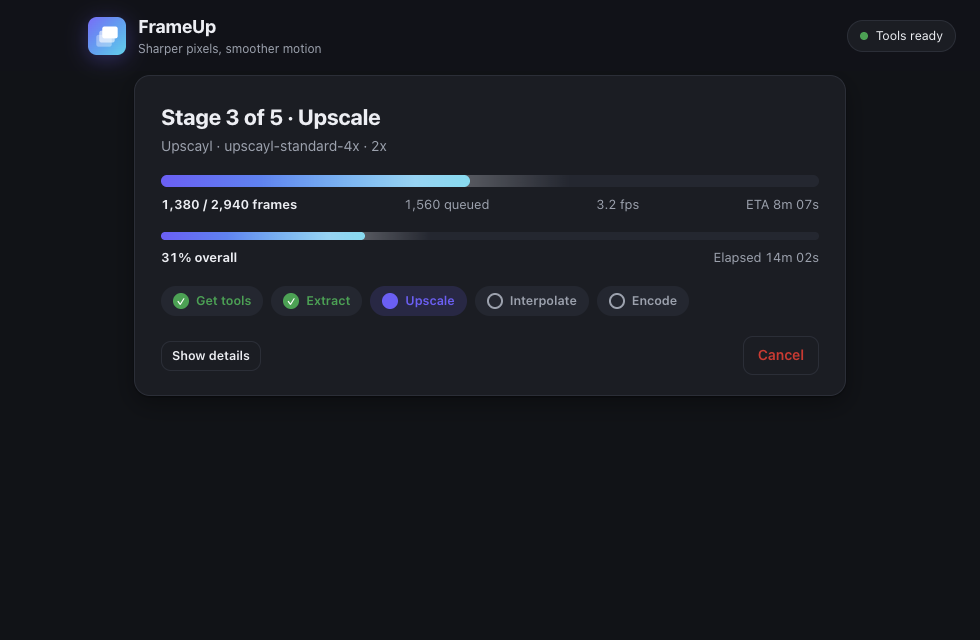
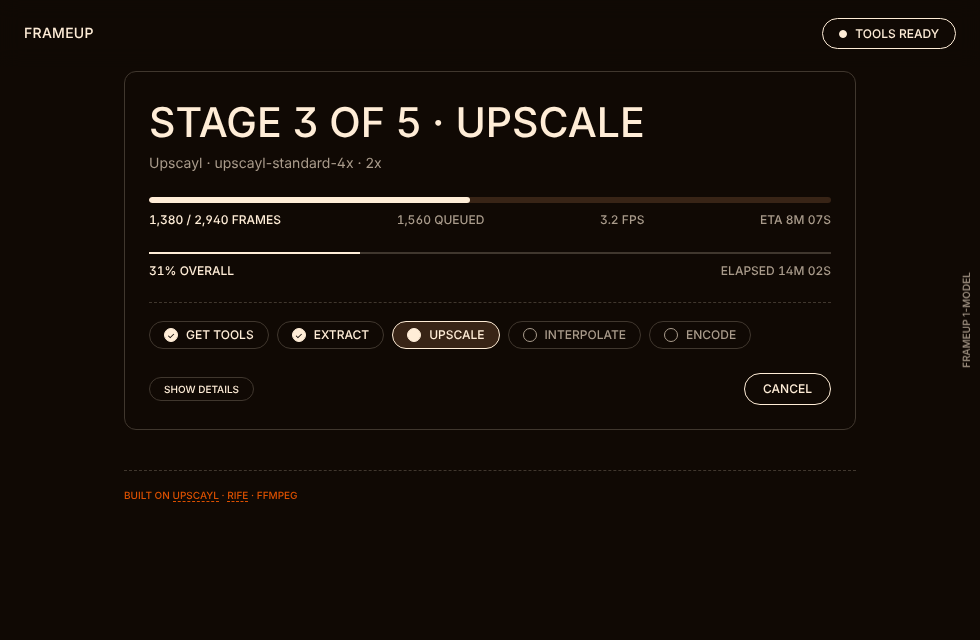
Restyle the UI as a dark editorial theme; use GITHUB_TOKEN for smoke-test API calls
UI: warm-dark canvas, cream uppercase type, hairline dashed dividers, one filled
pill button, underline-only inputs, no shadows, ember accent for credits only.
Docs screenshots regenerated.

CI: githubJson sends GITHUB_TOKEN when set and the workflow's smoke step passes it,
avoiding the unauthenticated 60/hour rate limit that failed macOS runners.

Claude-Session: https://claude.ai/code/session_011GP7yt1kUMtTtXSDfzhnFa

diff --git a/renderer/styles.css b/renderer/styles.css
@@ -1,120 +1,145 @@
+/* FrameUp — dark editorial theme: warm-dark canvas, cream uppercase type, hairline dashed dividers, no shadows. */
 :root {
-  --bg: #f4f5f8; --card: #ffffff; --ink: #14161a; --muted: #6b7280; --line: #e4e6ec; --soft: #eef0f5;
-  --accent: #6d5efc; --accent2: #22d3ee; --ok: #16a34a; --warn: #b45309; --warnbg: #fff4e0; --danger: #dc2626;
-  --shadow: 0 1px 2px rgba(16,24,40,.05), 0 8px 24px rgba(16,24,40,.06);
-  --radius: 16px;
-}
-@media (prefers-color-scheme: dark) {
-  :root { --bg: #111318; --card: #1a1d24; --ink: #eceef3; --muted: #9aa1ae; --line: #2a2e38; --soft: #232731;
-    --warn: #f5b04a; --warnbg: #2c2314; --shadow: 0 1px 2px rgba(0,0,0,.4), 0 8px 24px rgba(0,0,0,.35); }
+  --cream: #ffedd7; --walnut: #100904; --bark: #382416; --cork: #40372e; --drift: #6c5f51; --ember: #dc5000;
+  /* aliases used by app.js */
+  --dim: color-mix(in srgb, var(--cream) 64%, var(--walnut)); --warn: var(--cream); --muted: var(--dim);
+  --font: "halyard-display-variable", "Inter", "Söhne", "Neue Haas Grotesk", ui-sans-serif, system-ui, -apple-system, "Segoe UI", Roboto, sans-serif;
+  --r-card: 12px; --r-ghost: 22.5px; --r-pill: 36px;
 }
 * { box-sizing: border-box; }
 html, body { height: 100%; }
-body { margin: 0; background: var(--bg); color: var(--ink); font: 14px/1.45 -apple-system, BlinkMacSystemFont, "Segoe UI", Roboto, Ubuntu, "Helvetica Neue", sans-serif; -webkit-font-smoothing: antialiased; }
+html { color-scheme: dark; }
+body { margin: 0; background: var(--walnut); color: var(--cream); font: 500 12px/1.2 var(--font); font-feature-settings: "ss01" on; text-transform: uppercase; -webkit-font-smoothing: antialiased; }
 .hidden { display: none !important; }
-.muted { color: var(--muted); }
+.muted { color: var(--dim); }
+a { color: inherit; }
 
-.topbar { display: flex; align-items: center; justify-content: space-between; padding: 14px 24px; -webkit-app-region: drag; position: sticky; top: 0; z-index: 5; background: color-mix(in srgb, var(--bg) 88%, transparent); backdrop-filter: blur(10px); }
+/* the one mixed-case voice: descriptive copy */
+.lede, .hint, .drop-sub, .tool .d, .path, .log, .warn, .doneText, #doneText, .run-note, .summary, .srcname, .chip, .stat-case { text-transform: none; font-weight: 400; }
+
+/* top bar + edge label */
+.topbar { display: flex; align-items: center; justify-content: space-between; padding: 18px 24px; -webkit-app-region: drag; position: sticky; top: 0; z-index: 5; background: color-mix(in srgb, var(--walnut) 88%, transparent); backdrop-filter: blur(10px); }
 body.darwin .topbar { padding-left: 88px; }
 .topbar button { -webkit-app-region: no-drag; }
-.brand { display: flex; align-items: center; gap: 12px; }
-.logo { width: 38px; height: 38px; filter: drop-shadow(0 4px 10px rgba(109,94,252,.35)); }
-.brand-name { font-weight: 750; font-size: 18px; letter-spacing: -.01em; }
-.brand-sub { color: var(--muted); font-size: 12px; }
-.pill { display: inline-flex; align-items: center; gap: 8px; border: 1px solid var(--line); background: var(--card); color: var(--ink); border-radius: 999px; padding: 6px 12px; font: inherit; font-size: 12.5px; cursor: pointer; }
-.pill:hover { border-color: var(--accent); }
-.dot { width: 8px; height: 8px; border-radius: 50%; background: var(--muted); }
-.dot.ok { background: var(--ok); } .dot.warn { background: #f59e0b; }
+.brand-name { font-size: 14px; letter-spacing: .02em; }
+.sidelabel { position: fixed; right: 8px; top: 50%; writing-mode: vertical-rl; transform: translateY(-50%) rotate(180deg); font-size: 10px; color: var(--dim); pointer-events: none; z-index: 1; }
+.pill { display: inline-flex; align-items: center; gap: 8px; border: 1px solid var(--cream); background: transparent; color: var(--cream); border-radius: var(--r-ghost); padding: 7.5px 16px; font: inherit; text-transform: uppercase; cursor: pointer; }
+.pill:hover { background: var(--bark); }
+.dot { width: 8px; height: 8px; border-radius: 50%; border: 1px solid var(--cream); }
+.dot.ok { background: var(--cream); } .dot.warn { background: transparent; border-style: dashed; }
 
-main { max-width: 760px; margin: 0 auto; padding: 4px 24px 40px; }
-.card { background: var(--card); border: 1px solid var(--line); border-radius: var(--radius); box-shadow: var(--shadow); padding: 18px 20px; margin-bottom: 14px; }
-.card-head { display: flex; align-items: center; gap: 10px; margin-bottom: 12px; }
-.card-head h2 { margin: 0; font-size: 15px; flex: 1; }
-.num { width: 22px; height: 22px; border-radius: 50%; background: linear-gradient(135deg, var(--accent), var(--accent2)); color: #fff; font-size: 12px; font-weight: 700; display: grid; place-items: center; }
-.lbl { display: block; font-size: 12px; font-weight: 600; color: var(--muted); margin: 0 0 6px; text-transform: uppercase; letter-spacing: .04em; }
-.hint { color: var(--muted); font-size: 12.5px; margin-top: 8px; }
-.row { display: flex; align-items: center; } .gap { gap: 10px; } .between { justify-content: space-between; } .center { justify-content: center; } .wrap { flex-wrap: wrap; } .grow { flex: 1; min-width: 0; }
+main { max-width: 780px; margin: 0 auto; padding: 4px 24px 40px; }
+
+/* hero */
+.hero { padding: 36px 0 30px; border-bottom: 1px dashed var(--cork); margin-bottom: 24px; }
+.tagline { font-size: 12px; margin-bottom: 14px; }
+h1 { margin: 0; font-weight: 500; font-size: clamp(34px, 6.4vw, 51px); line-height: .9; }
+.lede { margin: 20px 0 0; font-size: clamp(16px, 2.6vw, 22px); line-height: 1.26; max-width: 30em; }
+
+/* cards */
+.card { background: transparent; border: 1px solid var(--cork); border-radius: var(--r-card); padding: 24px; margin-bottom: 18px; }
+.card-head { display: flex; align-items: center; gap: 14px; margin-bottom: 18px; padding-bottom: 14px; border-bottom: 1px dashed var(--cork); }
+.card-head h2 { margin: 0; font-size: 18px; font-weight: 500; line-height: 1; flex: 1; }
+.num { font-size: 12px; color: var(--dim); font-variant-numeric: tabular-nums; }
+.num::before { content: "0"; }
+.lbl { display: block; font-size: 12px; font-weight: 500; color: var(--cream); margin: 0 0 10px; }
+.hint { color: var(--dim); font-size: 14px; line-height: 1.3; margin-top: 12px; }
+.row { display: flex; align-items: center; } .gap { gap: 18px; } .between { justify-content: space-between; } .center { justify-content: center; } .wrap { flex-wrap: wrap; } .grow { flex: 1; min-width: 0; }
 .center-text { text-align: center; }
-.grid2 { display: grid; grid-template-columns: 1fr auto; gap: 16px; align-items: end; }
+.grid2 { display: grid; grid-template-columns: 1fr auto; gap: 18px; align-items: end; }
 
-.btn { font: inherit; font-weight: 600; border-radius: 10px; padding: 8px 14px; border: 1px solid var(--line); background: var(--card); color: var(--ink); cursor: pointer; transition: transform .05s, border-color .15s, background .15s; }
-.btn:hover { border-color: var(--accent); } .btn:active { transform: translateY(1px); }
-.btn.ghost { background: transparent; } .btn.small { padding: 5px 10px; font-size: 12.5px; }
-.btn.primary { background: linear-gradient(135deg, var(--accent), #8b5cf6); color: #fff; border-color: transparent; box-shadow: 0 6px 18px rgba(109,94,252,.35); }
-.btn.primary:hover { filter: brightness(1.06); }
-.btn.danger { color: var(--danger); } .btn.danger.confirm { background: var(--danger); color: #fff; border-color: var(--danger); }
-.btn.big { padding: 12px 34px; font-size: 15px; border-radius: 12px; }
-.btn:disabled { opacity: .45; cursor: not-allowed; box-shadow: none; }
-:focus-visible { outline: 2px solid var(--accent); outline-offset: 2px; }
+/* buttons: one filled pill, outlined ghosts */
+.btn { font: inherit; text-transform: uppercase; border-radius: var(--r-ghost); padding: 7.5px 18px; border: 1px solid var(--cream); background: transparent; color: var(--cream); cursor: pointer; transition: background .15s; }
+.btn:hover { background: var(--bark); } .btn:active { background: var(--cork); }
+.btn.ghost { border-color: var(--cork); } .btn.ghost:hover { border-color: var(--cream); }
+.btn.small { padding: 5px 14px; font-size: 10px; }
+.btn.primary { background: var(--bark); border-color: var(--bark); border-radius: var(--r-pill); padding: 14px 24px; }
+.btn.primary:hover { background: var(--cork); border-color: var(--cork); }
+.btn.danger.confirm { background: var(--bark); border-color: var(--bark); }
+.btn.big { padding: 14px 40px; font-size: 14px; }
+.btn:disabled { opacity: .35; cursor: not-allowed; }
+:focus-visible { outline: 1px dashed var(--cream); outline-offset: 3px; }
 
-.drop { border: 2px dashed var(--line); border-radius: 14px; padding: 22px 16px; text-align: center; transition: border-color .15s, background .15s; }
-.drop.over { border-color: var(--accent); background: color-mix(in srgb, var(--accent) 8%, transparent); }
-.drop .ico { width: 34px; height: 34px; color: var(--accent); }
-.drop-title { font-weight: 650; margin-top: 6px; } .drop-sub { color: var(--muted); font-size: 12.5px; margin: 2px 0 12px; }
-.srcinfo { margin-top: 14px; padding: 12px 14px; background: var(--soft); border-radius: 12px; }
-.srcname { font-weight: 650; margin-bottom: 6px; word-break: break-all; }
+/* drop zone + source */
+.drop { border: 1px dashed var(--drift); border-radius: var(--r-card); padding: 28px 18px; text-align: center; transition: border-color .15s, background .15s; }
+.drop.over { border-color: var(--cream); background: var(--bark); }
+.drop .ico { width: 30px; height: 30px; color: var(--cream); }
+.drop-title { font-size: 18px; line-height: 1; margin-top: 12px; }
+.drop-sub { color: var(--dim); font-size: 14px; margin: 8px 0 18px; }
+.srcinfo { margin-top: 18px; padding: 14px 0 0; border-top: 1px dashed var(--cork); }
+.srcname { font-size: 14px; font-weight: 500; margin-bottom: 10px; word-break: break-all; text-transform: none; }
 .chips { display: flex; flex-wrap: wrap; gap: 6px; }
-.chip { background: var(--card); border: 1px solid var(--line); border-radius: 999px; padding: 2px 10px; font-size: 12px; }
-.srcinfo .row { margin-top: 10px; }
+.chip { border: 1px solid var(--cork); border-radius: 999px; padding: 3px 12px; font-size: 12px; }
+.srcinfo .row { margin-top: 14px; }
 
-select, input[type=number] { font: inherit; color: var(--ink); background: var(--card); border: 1px solid var(--line); border-radius: 10px; padding: 8px 10px; }
-.devs { margin-top: 14px; } .devgrid { display: grid; grid-template-columns: 90px 1fr; gap: 8px 10px; align-items: center; margin-top: 10px; }
+/* form controls: underline only, square */
+select, input[type=number] { font: inherit; text-transform: none; color: var(--cream); background: transparent; border: 0; border-bottom: 1px solid var(--cream); border-radius: 0; padding: 4px 2px; }
+select option { background: var(--walnut); color: var(--cream); }
 select { width: 100%; } input[type=number] { width: 90px; }
-.seg { display: inline-flex; background: var(--soft); border-radius: 11px; padding: 3px; gap: 2px; }
+.devs { margin-top: 18px; padding-top: 18px; border-top: 1px dashed var(--cork); }
+.devgrid { display: grid; grid-template-columns: 96px 1fr; gap: 12px 18px; align-items: center; margin-top: 14px; }
+.seg { display: inline-flex; gap: 6px; }
 .seg.wide { display: flex; } .seg.wide button { flex: 1; }
-.seg button { font: inherit; font-weight: 600; border: 0; background: transparent; color: var(--muted); border-radius: 8px; padding: 7px 14px; cursor: pointer; }
-.seg button.on { background: var(--card); color: var(--ink); box-shadow: 0 1px 3px rgba(0,0,0,.12); }
-.seg button:disabled { opacity: .4; cursor: not-allowed; }
-#customRow, #engineBox { margin-top: 12px; }
+.seg button { font: inherit; text-transform: uppercase; border: 1px solid var(--cork); background: transparent; color: var(--cream); border-radius: var(--r-ghost); padding: 7.5px 18px; cursor: pointer; }
+.seg button:hover { border-color: var(--cream); }
+.seg button.on { background: var(--bark); border-color: var(--cream); }
+.seg button:disabled { opacity: .35; cursor: not-allowed; }
+#customRow, #engineBox { margin-top: 18px; }
 
 .switch { position: relative; width: 42px; height: 24px; flex: none; }
 .switch input { opacity: 0; width: 0; height: 0; }
-.slider { position: absolute; inset: 0; background: var(--line); border-radius: 999px; transition: .2s; cursor: pointer; }
-.slider::before { content: ""; position: absolute; width: 18px; height: 18px; left: 3px; top: 3px; background: #fff; border-radius: 50%; transition: .2s; box-shadow: 0 1px 3px rgba(0,0,0,.3); }
-.switch input:checked + .slider { background: var(--accent); } .switch input:checked + .slider::before { transform: translateX(18px); }
-.switch input:focus-visible + .slider { outline: 2px solid var(--accent); outline-offset: 2px; }
-#cardUpscale.off #upBody { opacity: .4; pointer-events: none; }
+.slider { position: absolute; inset: 0; border: 1px solid var(--cream); border-radius: 999px; transition: .2s; cursor: pointer; }
+.slider::before { content: ""; position: absolute; width: 16px; height: 16px; left: 3px; top: 3px; background: var(--cream); border-radius: 50%; transition: .2s; }
+.switch input:checked + .slider { background: var(--bark); } .switch input:checked + .slider::before { transform: translateX(18px); }
+.switch input:focus-visible + .slider { outline: 1px dashed var(--cream); outline-offset: 3px; }
+#cardUpscale.off #upBody { opacity: .35; pointer-events: none; }
 
-.path { font-family: ui-monospace, SFMono-Regular, Menlo, Consolas, monospace; font-size: 12.5px; word-break: break-all; }
-.summary { margin-top: 12px; padding: 10px 14px; background: var(--soft); border-radius: 12px; font-size: 13px; }
-.summary b { font-weight: 650; }
-.adv { margin-top: 12px; } .adv summary { cursor: pointer; color: var(--muted); font-weight: 600; margin-bottom: 8px; }
+.path { font-family: ui-monospace, SFMono-Regular, Menlo, Consolas, monospace; font-size: 12px; word-break: break-all; }
+.summary { margin-top: 18px; padding: 14px 0; border-top: 1px dashed var(--cork); border-bottom: 1px dashed var(--cork); font-size: 14px; }
+.summary b { font-weight: 500; }
+.adv { margin-top: 18px; } .adv summary { cursor: pointer; font-weight: 500; margin-bottom: 14px; }
 
-.startbar { position: sticky; bottom: 0; padding: 14px 0 6px; display: flex; flex-direction: column; align-items: center; gap: 10px; background: linear-gradient(to top, var(--bg) 70%, transparent); }
-.warn { background: var(--warnbg); color: var(--warn); border-radius: 10px; padding: 8px 14px; font-size: 13px; max-width: 100%; }
+.startbar { position: sticky; bottom: 0; padding: 18px 0 6px; display: flex; flex-direction: column; align-items: center; gap: 12px; background: linear-gradient(to top, var(--walnut) 70%, transparent); }
+.startbar .warn { border: 1px dashed var(--cream); border-radius: var(--r-card); padding: 10px 18px; font-size: 14px; max-width: 100%; }
 
 /* run view */
-.runcard { padding: 26px 26px 20px; }
-.run-stage { font-size: 22px; font-weight: 750; letter-spacing: -.01em; }
-.run-note { color: var(--muted); margin: 2px 0 18px; min-height: 20px; word-break: break-word; }
-.bar { height: 12px; border-radius: 999px; background: var(--soft); overflow: hidden; }
-.bar.overall { height: 8px; margin-top: 18px; }
-.fill { height: 100%; width: 0%; border-radius: 999px; background: linear-gradient(90deg, var(--accent), var(--accent2)); transition: width .4s ease; position: relative; }
-.fill::after { content: ""; position: absolute; inset: 0; background: linear-gradient(90deg, transparent, rgba(255,255,255,.35), transparent); transform: translateX(-100%); animation: shimmer 1.6s infinite; }
-.done-state .fill::after { display: none; }
-@keyframes shimmer { to { transform: translateX(100%); } }
-.stats { display: flex; justify-content: space-between; gap: 12px; margin-top: 8px; font-size: 13px; color: var(--muted); font-variant-numeric: tabular-nums; flex-wrap: wrap; }
-.stats span:first-child { color: var(--ink); font-weight: 650; }
-.stepper { list-style: none; display: flex; flex-wrap: wrap; gap: 8px; padding: 0; margin: 20px 0; }
-.stepper li { display: flex; align-items: center; gap: 7px; padding: 6px 12px; border-radius: 999px; background: var(--soft); color: var(--muted); font-size: 12.5px; font-weight: 600; }
-.stepper li .mk { width: 16px; height: 16px; border-radius: 50%; border: 2px solid currentColor; display: grid; place-items: center; font-size: 10px; line-height: 1; }
-.stepper li.active { background: color-mix(in srgb, var(--accent) 16%, transparent); color: var(--accent); }
-.stepper li.active .mk { border-color: transparent; background: var(--accent); color: #fff; }
-.stepper li.done { color: var(--ok); } .stepper li.done .mk { background: var(--ok); border-color: var(--ok); color: #fff; }
-.log { margin: 14px 0 0; max-height: 220px; overflow: auto; background: var(--soft); border-radius: 10px; padding: 10px 12px; font: 11.5px/1.5 ui-monospace, Menlo, Consolas, monospace; white-space: pre-wrap; word-break: break-all; }
+.runcard { padding: 32px 24px 24px; }
+.run-stage { font-size: clamp(24px, 4.2vw, 41px); font-weight: 500; line-height: .9; }
+.run-note { color: var(--dim); font-size: 14px; margin: 14px 0 24px; min-height: 18px; word-break: break-word; }
+.bar { height: 6px; border-radius: 999px; background: var(--bark); overflow: hidden; }
+.bar.overall { height: 2px; border-radius: 0; margin-top: 24px; background: var(--cork); }
+.fill { height: 100%; width: 0%; border-radius: inherit; background: var(--cream); transition: width .4s ease; }
+.stats { display: flex; justify-content: space-between; gap: 12px; margin-top: 10px; font-size: 12px; color: var(--dim); font-variant-numeric: tabular-nums; flex-wrap: wrap; }
+.stats span:first-child { color: var(--cream); }
+.stepper { list-style: none; display: flex; flex-wrap: wrap; gap: 8px; padding: 18px 0 0; margin: 24px 0; border-top: 1px dashed var(--cork); }
+.stepper li { display: flex; align-items: center; gap: 8px; padding: 6px 14px; border-radius: 999px; border: 1px solid var(--cork); color: var(--dim); font-size: 12px; }
+.stepper li .mk { width: 14px; height: 14px; border-radius: 50%; border: 1px solid currentColor; display: grid; place-items: center; font-size: 9px; line-height: 1; }
+.stepper li.active { background: var(--bark); border-color: var(--cream); color: var(--cream); }
+.stepper li.active .mk { background: var(--cream); border-color: var(--cream); }
+.stepper li.done { color: var(--cream); } .stepper li.done .mk { background: var(--cream); border-color: var(--cream); color: var(--walnut); }
+.log { margin: 18px 0 0; max-height: 220px; overflow: auto; border: 1px dashed var(--cork); border-radius: var(--r-card); padding: 12px 14px; font: 400 11.5px/1.5 ui-monospace, Menlo, Consolas, monospace; white-space: pre-wrap; word-break: break-all; }
 
-.donecard { text-align: center; padding: 34px 26px; }
-.donecard h2 { margin: 12px 0 4px; font-size: 22px; }
-.donecard .path { margin: 12px 0 18px; }
-.done-icon { width: 56px; height: 56px; border-radius: 50%; margin: 0 auto; display: grid; place-items: center; font-size: 28px; color: #fff; }
-.done-icon.ok { background: var(--ok); } .done-icon.bad { background: var(--danger); } .done-icon.stop { background: var(--muted); }
-.errlog { text-align: left; margin-top: 18px; }
+.donecard { text-align: center; padding: 40px 24px; }
+.donecard h2 { margin: 24px 0 8px; font-size: clamp(30px, 5.4vw, 41px); font-weight: 500; line-height: .9; }
+#doneText { font-size: 18px; line-height: 1.26; margin: 0; }
+.donecard .path { margin: 24px 0; }
+.done-icon { width: 56px; height: 56px; border-radius: 50%; margin: 0 auto; display: grid; place-items: center; font-size: 24px; border: 1px solid var(--cream); }
+.done-icon.ok { background: var(--cream); color: var(--walnut); } .done-icon.bad { border-style: dashed; } .done-icon.stop { color: var(--dim); border-color: var(--dim); }
+.errlog { text-align: left; margin-top: 24px; }
 
-dialog { border: 1px solid var(--line); border-radius: 16px; background: var(--card); color: var(--ink); padding: 20px; width: min(560px, 92vw); box-shadow: var(--shadow); }
-dialog::backdrop { background: rgba(0,0,0,.4); }
-.dlg-head { display: flex; justify-content: space-between; align-items: center; } .dlg-head h3 { margin: 0; }
-.tool { display: flex; align-items: center; gap: 12px; padding: 12px 0; border-top: 1px solid var(--line); }
+/* credits: the one place the accent appears */
+.credits { margin-top: 40px; padding-top: 18px; border-top: 1px dashed var(--cork); color: var(--ember); font-size: 10px; }
+.credits a { text-decoration: none; border-bottom: 1px dashed currentColor; }
+
+/* tools dialog */
+dialog { border: 1px solid var(--cork); border-radius: var(--r-card); background: var(--walnut); color: var(--cream); padding: 24px; width: min(580px, 92vw); font: inherit; text-transform: uppercase; }
+dialog::backdrop { background: rgba(16, 9, 4, .8); }
+.dlg-head { display: flex; justify-content: space-between; align-items: center; } .dlg-head h3 { margin: 0; font-size: 24px; font-weight: 500; line-height: 1.09; }
+dialog p.muted { text-transform: none; font-weight: 400; font-size: 14px; line-height: 1.3; }
+.tool { display: flex; align-items: center; gap: 18px; padding: 14px 0; border-top: 1px dashed var(--cork); }
 .tool:first-child { border-top: 0; }
-.tool .info { flex: 1; min-width: 0; } .tool .t { font-weight: 650; } .tool .d { color: var(--muted); font-size: 12.5px; word-break: break-all; }
-.tool .st { font-size: 12.5px; font-weight: 600; } .st.ok { color: var(--ok); } .st.miss { color: var(--warn); }
-.mini { height: 6px; border-radius: 99px; background: var(--soft); overflow: hidden; margin-top: 6px; } .mini > div { height: 100%; width: 0; background: var(--accent); }
+.tool .info { flex: 1; min-width: 0; } .tool .t { font-weight: 500; } .tool .d { color: var(--dim); font-size: 12px; word-break: break-all; margin-top: 4px; }
+.tool .st { font-size: 12px; } .st.miss { color: var(--dim); }
+.mini { height: 4px; border-radius: 99px; background: var(--bark); overflow: hidden; margin-top: 8px; } .mini > div { height: 100%; width: 0; background: var(--cream); }
+
+@media (max-width: 680px) { .sidelabel { display: none; } .grid2 { grid-template-columns: 1fr; } }

diff --git a/renderer/index.html b/renderer/index.html
@@ -9,22 +9,19 @@
 </head>
 <body>
 <header class="topbar">
-  <div class="brand">
-    <svg class="logo" viewBox="0 0 64 64" aria-hidden="true">
-      <defs><linearGradient id="g" x1="0" y1="0" x2="1" y2="1"><stop offset="0" stop-color="#7c6cff"/><stop offset="1" stop-color="#22d3ee"/></linearGradient></defs>
-      <rect width="64" height="64" rx="15" fill="url(#g)"/>
-      <rect x="14" y="30" width="26" height="20" rx="4" fill="#fff" fill-opacity=".35"/>
-      <rect x="19" y="23" width="26" height="20" rx="4" fill="#fff" fill-opacity=".6"/>
-      <rect x="24" y="16" width="26" height="20" rx="4" fill="#fff"/>
-    </svg>
-    <div><div class="brand-name">FrameUp</div><div class="brand-sub">Sharper pixels, smoother motion</div></div>
-  </div>
+  <div class="brand"><span class="brand-name">FrameUp</span></div>
   <button class="pill" id="toolsBtn" title="Manage tools"><span class="dot" id="toolsDot"></span><span id="toolsLabel">Tools</span></button>
 </header>
+<div class="sidelabel" aria-hidden="true">FrameUp 1-Model</div>
 
 <main>
   <!-- ============ SETUP ============ -->
   <section id="view-setup" class="view">
+    <div class="hero">
+      <div class="tagline">Upscale · Interpolate · Encode</div>
+      <h1>Sharper pixels,<br>smoother motion.</h1>
+      <p class="lede">Point it at a video. It upscales, adds the in-between frames and encodes the result, all in one pass.</p>
+    </div>
     <div class="card" id="cardSource">
       <div class="card-head"><span class="num">1</span><h2>Source</h2></div>
       <div class="drop" id="drop" tabindex="0" role="button" aria-label="Choose a video or a folder of frames">
@@ -137,6 +134,7 @@
       <pre class="log errlog hidden" id="doneLog"></pre>
     </div>
   </section>
+  <footer class="credits">Built on <a href="https://github.com/upscayl/upscayl" target="_blank" rel="noreferrer">Upscayl</a> · <a href="https://github.com/nihui/rife-ncnn-vulkan" target="_blank" rel="noreferrer">RIFE</a> · ffmpeg</footer>
 </main>
 
 <!-- Tools dialog -->

diff --git a/renderer/app.js b/renderer/app.js
@@ -157,6 +157,7 @@ document.querySelectorAll('#upScale button').forEach((b) => b.addEventListener('
 document.querySelectorAll('#fpsMode button').forEach((b) => b.addEventListener('click', () => { S.fpsMode = b.dataset.v; seg('fpsMode', S.fpsMode); update(); }));
 document.querySelectorAll('#engine button').forEach((b) => b.addEventListener('click', () => { if (!b.disabled) { S.engine = b.dataset.v; seg('engine', S.engine); update(); } }));
 ['srcFps', 'customFps'].forEach((id) => $(id).addEventListener('input', update));
+document.querySelectorAll('.credits a').forEach((a) => a.addEventListener('click', (e) => { e.preventDefault(); api.openExternal(a.href); }));
 $('toolsBtn').addEventListener('click', () => { renderToolsDialog(); $('toolsDlg').showModal(); });
 $('toolsClose').addEventListener('click', () => $('toolsDlg').close());
 

diff --git a/main.js b/main.js
@@ -20,9 +20,10 @@ const writeSettings = (s) => { fs.mkdirSync(dataDir, { recursive: true }); fs.wr
 const send = (ch, payload) => { if (win && !win.isDestroyed()) win.webContents.send(ch, payload); };
 
 function createWindow() {
+  nativeTheme.themeSource = 'dark'; // the UI is a single dark editorial theme
   win = new BrowserWindow({
     width: 980, height: 820, minWidth: 760, minHeight: 640, show: false,
-    title: 'FrameUp', backgroundColor: nativeTheme.shouldUseDarkColors ? '#14161a' : '#f6f7f9',
+    title: 'FrameUp', backgroundColor: '#100904',
     titleBarStyle: process.platform === 'darwin' ? 'hiddenInset' : 'default',
     webPreferences: { preload: path.join(__dirname, 'preload.js'), contextIsolation: true, nodeIntegration: false, sandbox: true },
   });

diff --git a/src/tools.js b/src/tools.js
@@ -49,7 +49,10 @@ function run(cmd, args, { timeout = 30000 } = {}) {
 }
 
 async function githubJson(url) {
-  const res = await fetch(url, { headers: { 'User-Agent': 'FrameUp', Accept: 'application/vnd.github+json' } });
+  // Unauthenticated API calls are rate limited per IP (60/h); use a token when one is provided (e.g. CI).
+  const headers = { 'User-Agent': 'FrameUp', Accept: 'application/vnd.github+json' };
+  if (process.env.GITHUB_TOKEN) headers.Authorization = `Bearer ${process.env.GITHUB_TOKEN}`;
+  const res = await fetch(url, { headers });
   if (!res.ok) throw new Error(`GitHub request failed (${res.status})`);
   return res.json();
 }

diff --git a/scripts/screenshots.js b/scripts/screenshots.js
@@ -18,7 +18,7 @@ module.exports = (win, outDir) => {
 
   win.webContents.once('did-finish-load', async () => {
     try {
-      const theme = process.env.FRAMEUP_THEME || 'light';
+      const theme = process.env.FRAMEUP_THEME || 'dark';
       nativeTheme.themeSource = theme;
       await sleep(1200);
       win.setSize(980, 1280);
